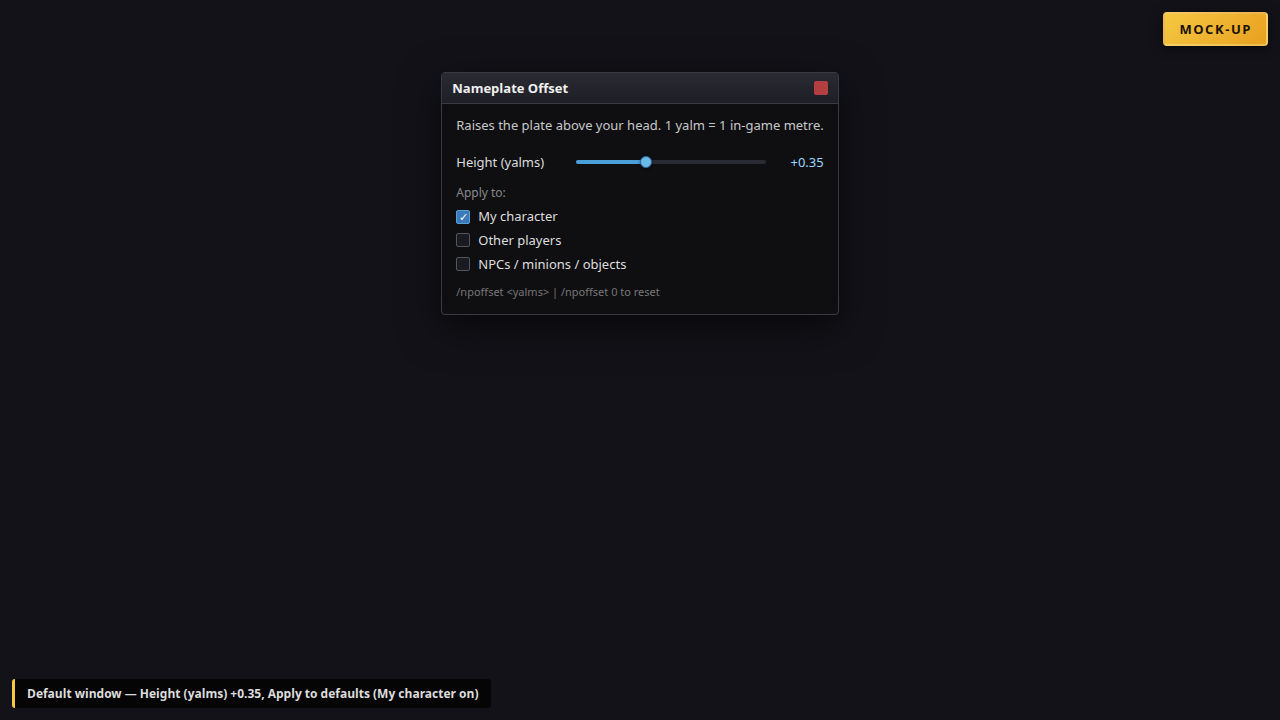
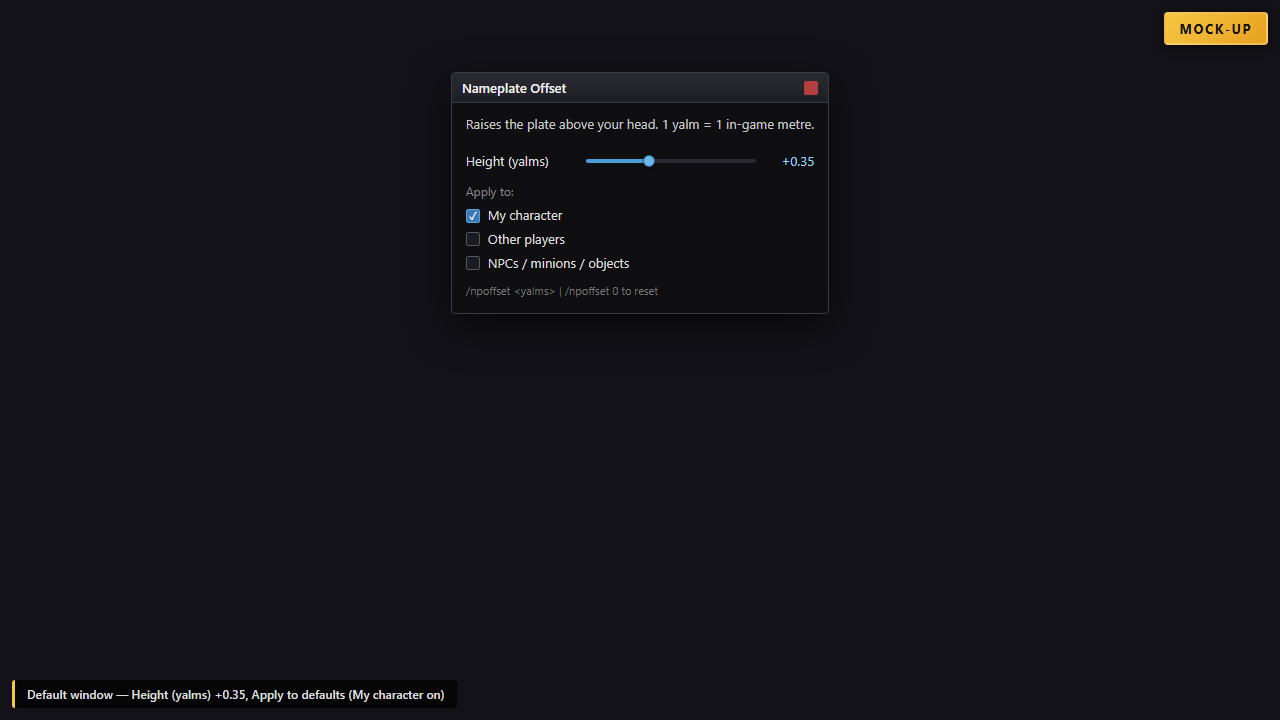
docs: refresh mock-up screenshots
Fix in-scene windows in 04/05 rendering full-width and clipped (a mock-frame
rule overrode their absolute position); keep them clear of the Mock-up badge
and the 05 chat panel clear of the scene label.

diff --git a/docs/screenshots/src/05-slash-commands.html b/docs/screenshots/src/05-slash-commands.html
@@ -39,7 +39,7 @@
       <strong>/npoffset</strong> — Open the nameplate height window, or: /npoffset &lt;yalms&gt;  e.g. /npoffset 0.35
     </div>
 
-    <div class="imgui-window" style="top: 24px; right: 24px;">
+    <div class="imgui-window" style="top: 64px; right: 24px;">
       <div class="imgui-titlebar">
         <span>Nameplate Offset</span>
         <span class="close"></span>
@@ -63,7 +63,7 @@
       </div>
     </div>
 
-    <div class="chat-panel">
+    <div class="chat-panel" style="bottom: 56px;">
       <div class="chat-line cmd">/npoffset</div>
       <div class="chat-line cmd">/npoffset 0.35</div>
       <div class="chat-line cmd">/npoffset 0</div>

diff --git a/docs/screenshots/src/04-nameplate-visual-effect.html b/docs/screenshots/src/04-nameplate-visual-effect.html
@@ -55,7 +55,7 @@
     </div>
     <div class="arrow" style="left: 820px; bottom: 198px; height: 18px;"></div>
 
-    <div class="imgui-window" style="top: 24px; right: 24px;">
+    <div class="imgui-window" style="top: 64px; right: 24px;">
       <div class="imgui-titlebar">
         <span>Nameplate Offset</span>
         <span class="close"></span>

diff --git a/docs/screenshots/src/dalamud-imgui.css b/docs/screenshots/src/dalamud-imgui.css
@@ -319,3 +319,8 @@ body.mock-frame .mock-content.scene-fill {
 body.mock-frame .imgui-window {
   position: relative;
 }
+
+/* Windows placed inside a world scene keep their inline top/right. */
+body.mock-frame .scene .imgui-window {
+  position: absolute;
+}
